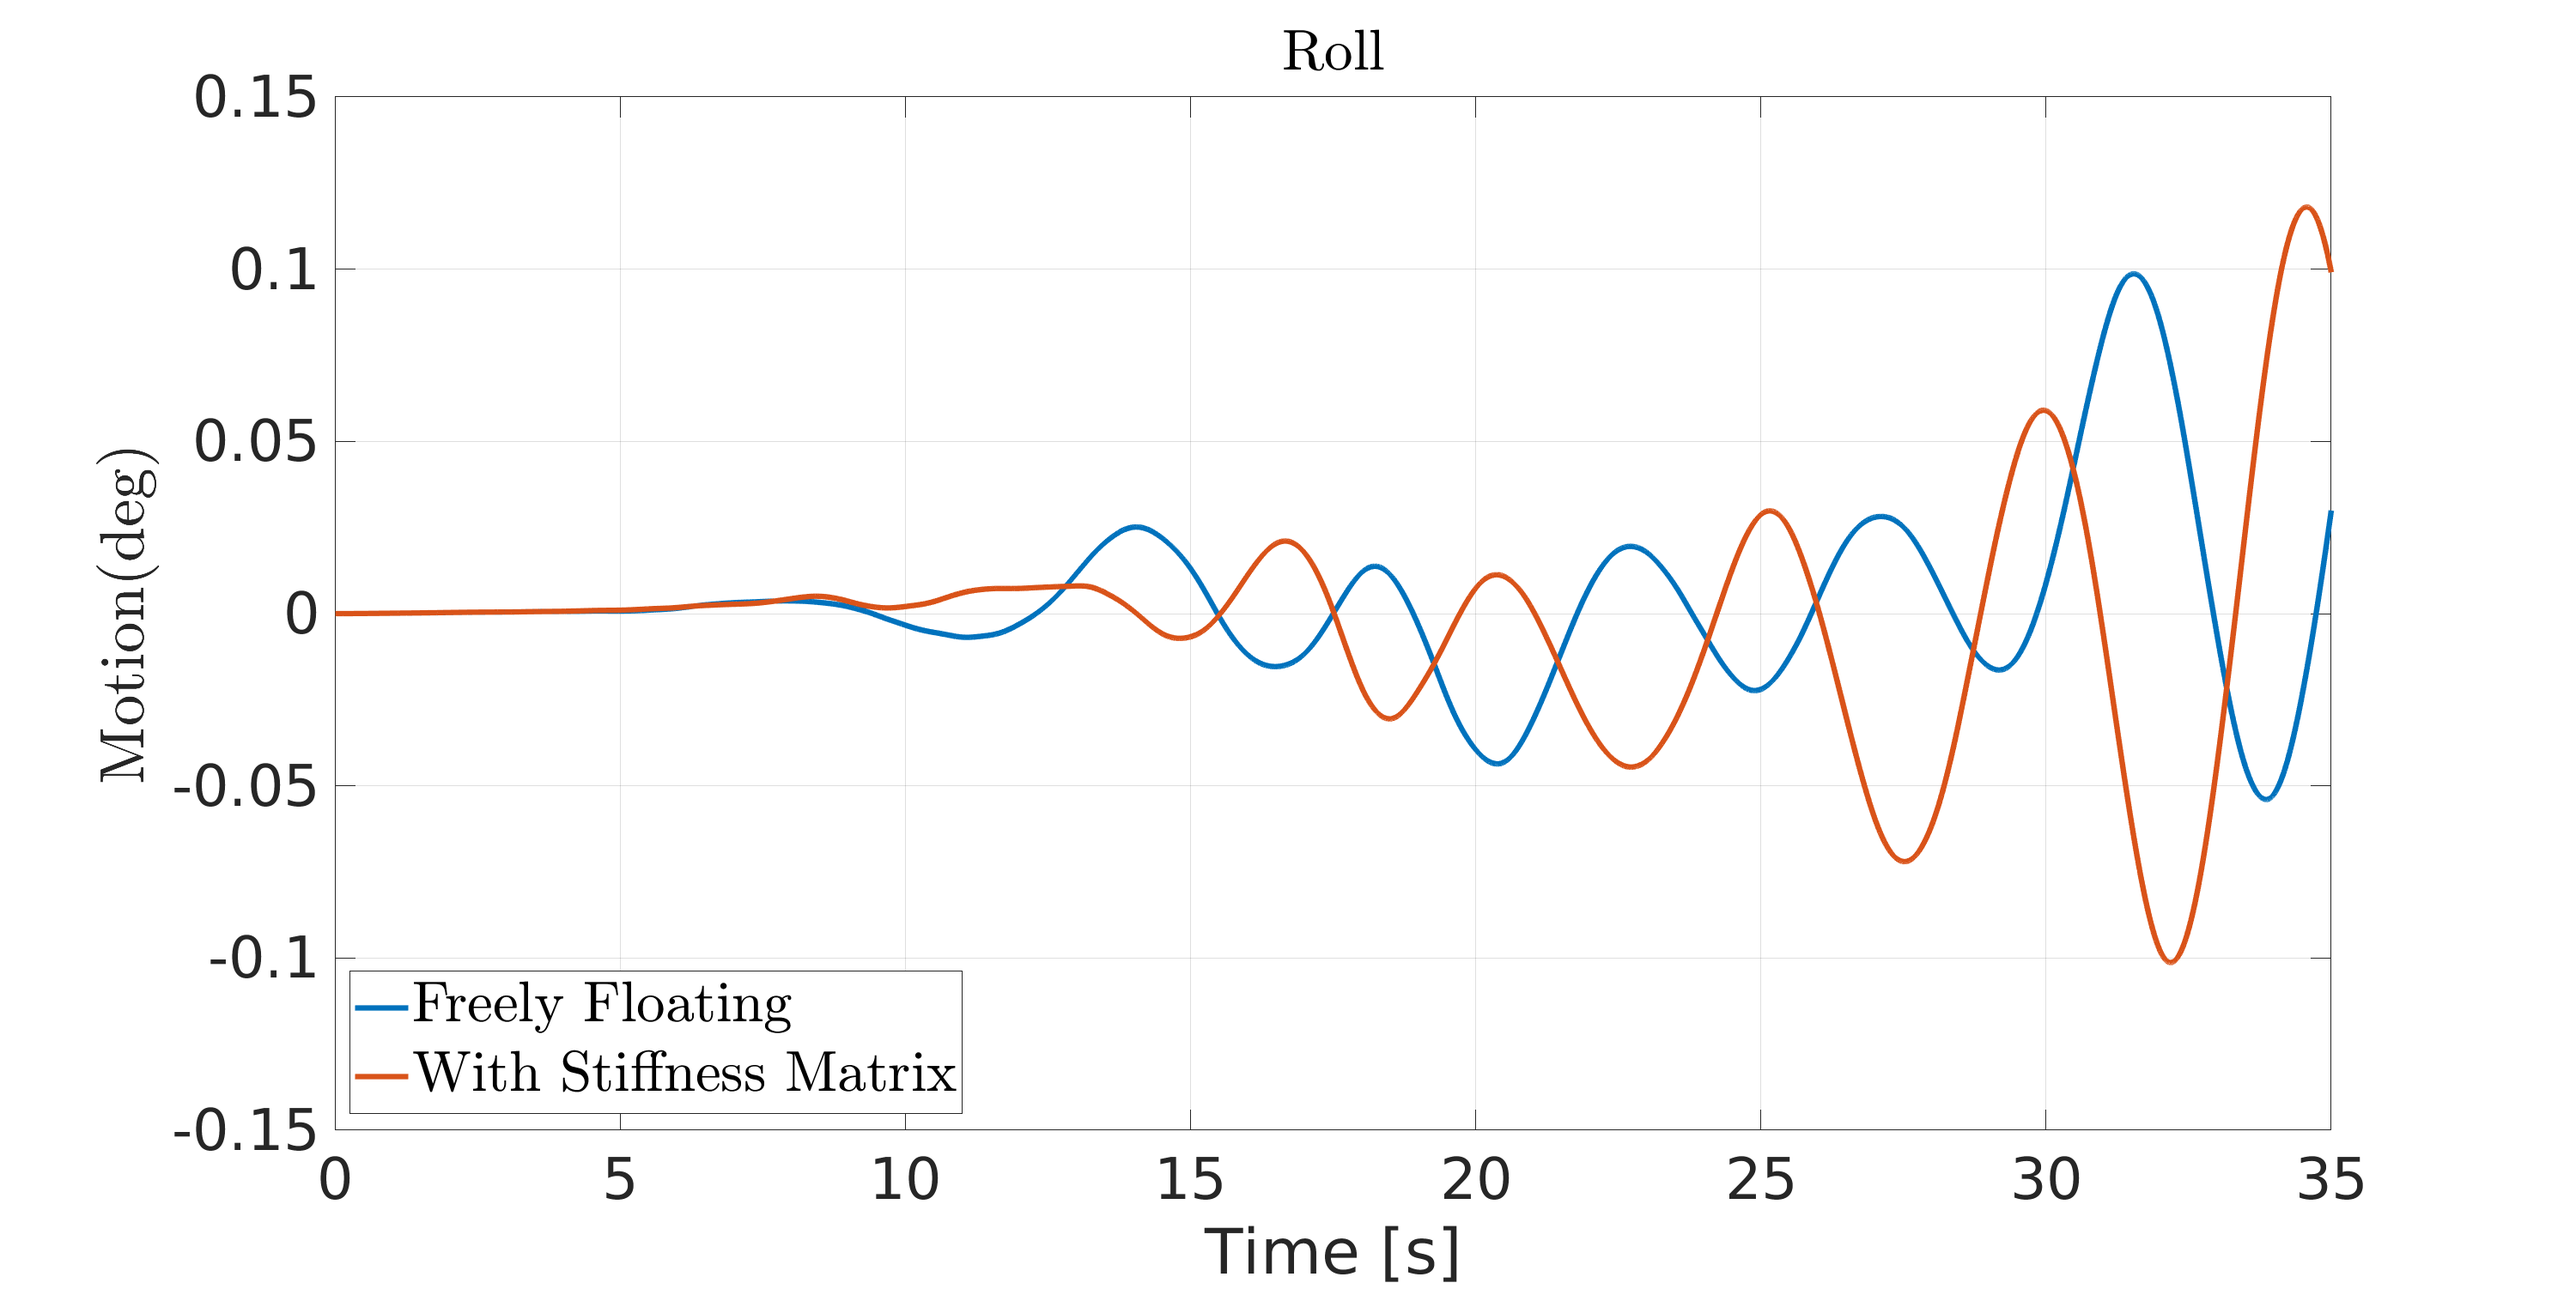
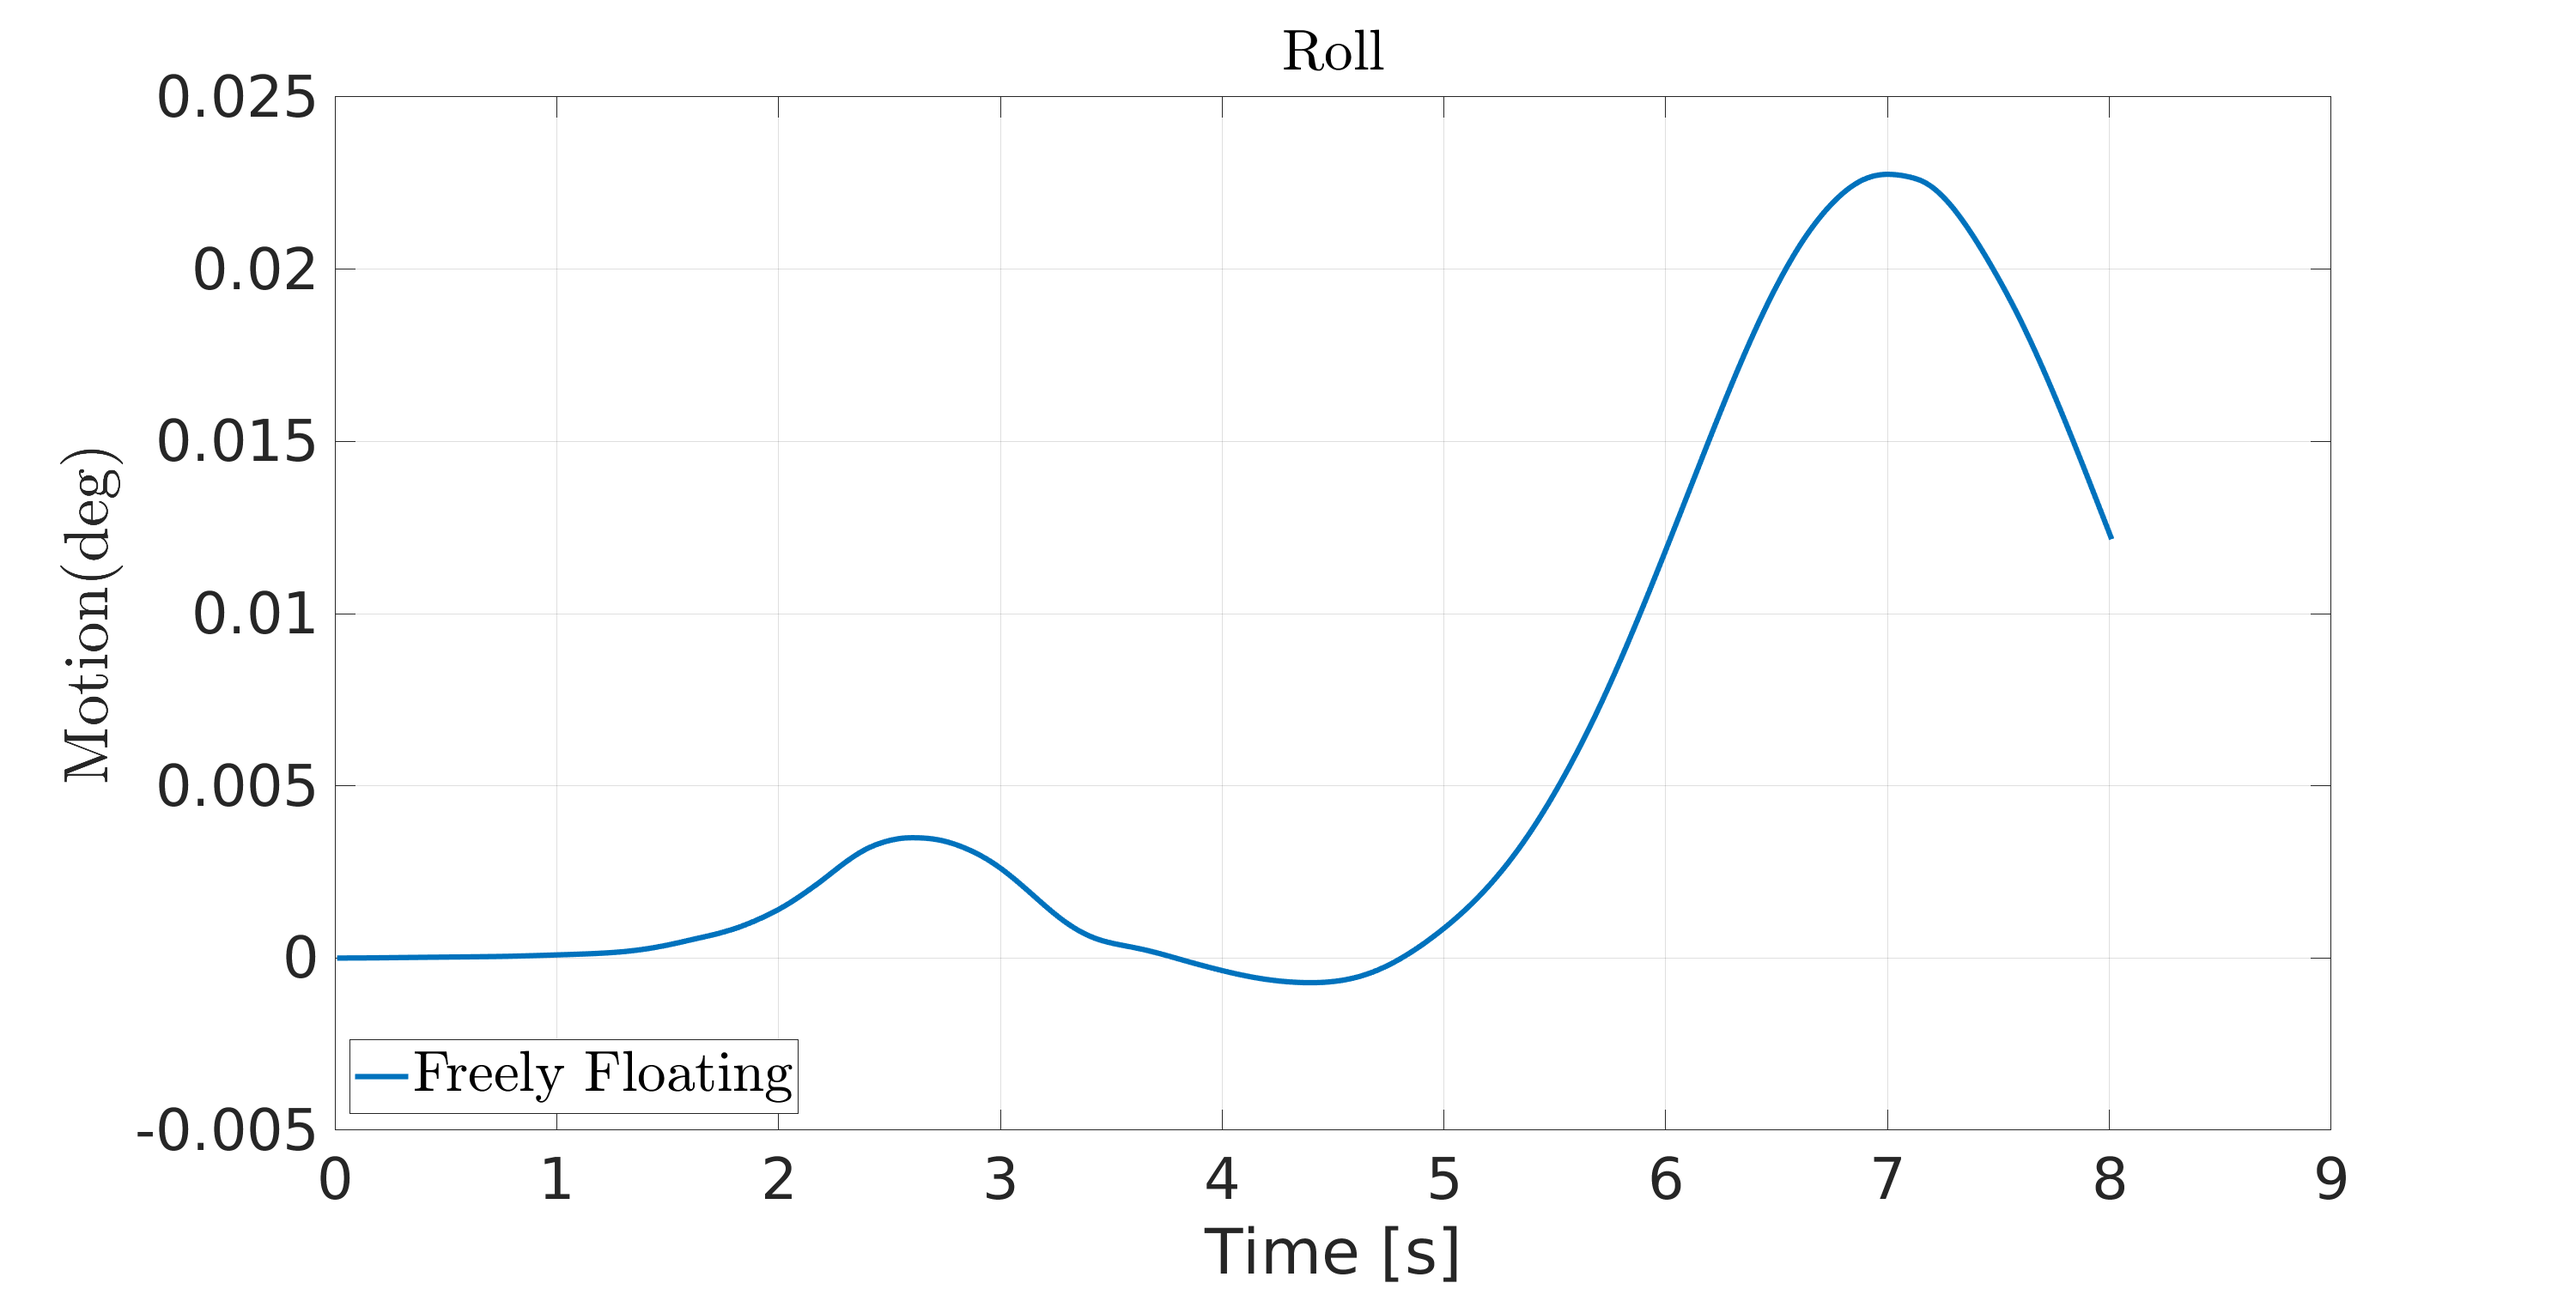
Updated Figures - Floating SPAR for Hydrostatics nearly zero

diff --git a/FloatingSPAR/ReadingMotionsPostProcessing.m b/FloatingSPAR/ReadingMotionsPostProcessing.m
@@ -16,9 +16,9 @@ parameter = 'A'; % Chose the parameters to be compared
[1 lines of base64/hex data omitted]
 ExptIndices=355212:403205;
 
-SPAR_Postprocessing_foamStar=fullfile('/home/saliyar/Documents/PhD_testCases/FloatingSPAR/SPAR_Hydrostatics_R');
+SPAR_Postprocessing_foamStar=fullfile('/home/saliyar/Documents/PhD_testCases/FloatingSPAR/SPAR_VolumeCorrection');
 nStart=1;
-nEnd=2;
+nEnd=1;
 titl ={'Surge','Sway','Heave','Roll','Pitch','Yaw'}; 
 ylbl={'Motion(m)','Motion(m)','Motion(m)','Motion(deg)','Motion(deg)','Motion(deg)'};
 lgd={'Freely Floating','With Stiffness Matrix'};

diff --git a/FloatingSPAR/Estimation_of_UWVolume.m b/FloatingSPAR/Estimation_of_UWVolume.m
@@ -18,7 +18,7 @@ Mass_entered=340.8;
 
 %% VaryingInput
 Overall_Draft=2.285;
-OF_alphafieldVolume=3.6114104e+01;
+OF_alphafieldVolume=3.6114093e+01;
 Domain_Length=2.7;
 Domain_width=2.7;
 Domain_Waterdepth=5;
@@ -53,7 +53,7 @@ fprintf('Theoratical Total submerged volume is %f(cu.m) \n',Total_Volume);
 
 OF_Volume=  (Domain_Length*Domain_width*Domain_Waterdepth)-OF_alphafieldVolume;
 
-
+fprintf('OF Total submerged volume is %f(cu.m) \n',OF_Volume);
 
 Diff_Volume=Total_Volume-OF_Volume;
 

diff --git a/FloatingSPAR/plotallmotion.m b/FloatingSPAR/plotallmotion.m
@@ -7,8 +7,8 @@ for j=nStart:nEnd
     SPAR_Postprocessing=[SPAR_Postprocessing_foamStar,num2str(j)];
     foamStarfullfile=fullfile(SPAR_Postprocessing,'/postProcessing/motionInfo/0/cylinder1.dat');
     data=readtable(foamStarfullfile); 
-    dt_motion{:,n}=data{1:3500,1}
-    pp=data{1:3500,2:end};
+    dt_motion{:,n}=data{:,1}
+    pp=data{:,2:end};
     motion_foamStar(:,:,n)=pp;
 end
 
